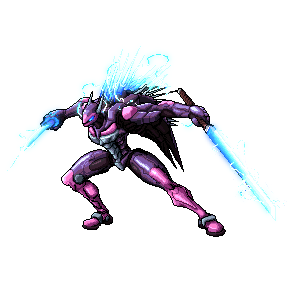
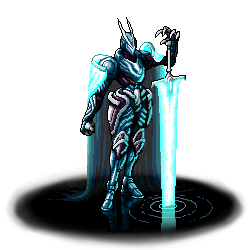
updated 36 arms of god to actual nimue

diff --git a/public/events/005.md b/public/events/005.md
@@ -302,18 +302,18 @@
 
 # The Vestan Speakers
 - The enemy pilots emerged from the wreckages, and they didn't look like traditional soldiers of the Second Sons. Vilicus ensured they were all accounted for, and Dominus began questioning one of them. At first the man said "We would rather die than talk to you, Union scum!" but with a little persuasive intimidation from Junior (now occupying an extremely uncanny, tall subaltern printed from Senior), the man began answering questions.
-- CF learned that they were essentially religious zealots who served Chief Aldansa's project, which itself was also the Chosen's project by extension. The work they were doing was to "clear the way," using the high pitched sound to cause the crystals to explode.
+- CF learned that they were essentially religious zealots who served Chief Aldansa's project, which itself was also the Chosens' project by extension. The work they were doing was to "clear the way," using the high pitched sound to cause the crystals to explode.
 - Dominus wanted to know more about what these people believe of the Chosen, but the man began going secretive again. With some pointed words given by Scimitar, she managed to push the right buttons in order to keep him talking.
 - Paraphrased quotes: *"The Chosen serve the will of Vesta herself. We clear the way so that her armies will emerge and uplift the Sovereignty."* *"You may try to commune with the Chosen, though I am honestly not sure if they will respond. I cannot imagine they will spurn you immediately."*
-- Before moving on, CF tuned up their mechs and got the specific directions to get back to the Sons' base of operations.
+- Before moving on, CF tuned up their mechs and got the specific directions to get to the Sons' base of operations.
 
 # The Fishbowl
 - The squad traveled further through the tunnels, following the signal and a series of wires until they came upon a large metal door, which Dominus could tell was remotely operated. Through the door was a long, narrow corridor only barely large enough for Senior and Man's Best Friend to fit through.
 - Similarly to the Tartarus lab on Vezoria, the lancers presumed they were likely entering a trap, but pressed on regardless. The corridor eventually led them to a wide, bowl-shaped chamber that was dimly lit. They could make out some sort of large, cylindrical device in the middle.
-- As they approached the object to take a closer look, floodlights on the ceiling suddenly lit up the whole space, revealing that the object was a large device made up of amplifiers and sound-related technology in which all the wires fed into. Clearly this was the source of the signal.
+- As they approached the object to take a closer look, floodlights on the ceiling suddenly lit up the whole space, revealing that the object was a large device made up of amplifiers and sound-related technology which all the wires fed into. Clearly this was the source of the signal.
 - Aside from that...nothing else happened. CF noticed an elevated human-scale platform with a spiral staircase leading straight up through the ceiling of the room, so Dominus dismounted and used his madrigal suit to boost up there.
 - Right as he touched down on the platform, he barely caught a glimpse of something in the corner of his eye: a face looking from the uppermost visible point of the staircase. The face quickly retracted as he landed on the platform.
-- Knowing that they were being watched, they increased their guard. Rho used a console to extend a staircase so that Scimitar (still mounted in her Nimue) and subaltern Junior could keep going with him.
+- Knowing that they were being watched, they increased their guard. Rho used a console to extend a staircase so that Scimitar (still mounted in The 36 Arms of God) and subaltern Junior could keep going with him.
 - They ascended the spiral staircase and found a seemingly abandoned series of rooms and hallways. They called out to see if anyone would respond, and saw the glow of a green flash from around a distant corner.
 
 # Voice of the Chosen
@@ -322,12 +322,12 @@
 - In the room, there were just a few chairs and desks, one of which was turned on its side with the man cowering behind it on the ground. Dominus tossed it aside, showing the man sitting on the ground in a fetal position, unarmed.
 - They asked him for his identity, and he told them he was Victor Aldansa. He was a younger person, in his mid to late twenties - a far cry from the likes of General Thorne and Isaac Ravyenko in many ways.
 - The lancers questioned Victor in much the same way as the pilots from the tunnels. With more creepy intimidation from Junior, it didn't take much effort to get this guy talking.
-- Victor explained that the Sons were using the crystals to blast away certain chunks of Edarum to clear the way for the grand finale, in which they would detonate nearly the entirety of Edarum. A unique quality of these crystals is that with the right frequency change after achieving perfect resonance, the direction of the explosions can be controlled to a surprisingly precise degree. This was to ensure the rubble and debris is directed away from Edarum rather than scattered in many directions.
+- Victor explained that the Sons were using the crystals to blast away certain chunks of Edarum to clear the way for the grand finale, in which they would detonate nearly the entirety of the planet. A unique quality of these crystals is that with the right frequency change after achieving perfect resonance, the direction of the explosions can be controlled to a surprisingly precise degree. This was to ensure the rubble and debris is directed away from Edarum rather than scattered in many directions.
 - As for why this plan was in motion, Victor said that the Chosen of Vesta instructed it so that their armies could emerge from "tears in reality," which are located near the core of the planet. He proved this by showing the footage from a monitoring camera. Sure enough, it appeared to be a bizarre glowing object unlike anything the lancers had seen before.
 - CF then demanded an audience with these Chosen, and Victor obliged. He seemed to simply close his eyes and concentrate on something for a minute, and then said that they'd be in contact momentarily.
 - Within moments, Scimitar, Dominus, and Shrike felt their sense of hearing become muffled and a feminine voice began speaking to them within their minds. Junior was unable to hear this, but Scimitar helped communicate things to him during the conversation.
 - The voice of the Chosen repeated that the "armies of Vesta" were to emerge from the reality tears, and Edarum would need to be detonated in order to make safe room.
-- Scimitar bluntly demanded why the Aun were orchestrating this whole plan. Why would they be trying to come through here in Cascade-16? To what end?
+- Scimitar bluntly demanded this person explain why the Aun were orchestrating this whole plan. Why would they be trying to come through here in Cascade-16? To what end?
 - The voice simply alluded to their god, and that they are all part of a much grander plan than they could possibly understand. They then stated that Victor had done what even General Thorne had failed to do - trap the famous Charlie Foxtrot. They thanked Victor for his service, and Victor simply stated that he understood.
 - Fearing that Victor may have been harboring some sort of hidden explosive device, Junior abruptly murdered him and consumed his corpse quickly. But there didn't seem to be any explosives.
 - The green flash appeared again down the hallway, and a figure walked from around the corner. The same voice from the pilots' minds then came from this person: *"Good luck getting out."* Another green flash, and they were gone.
